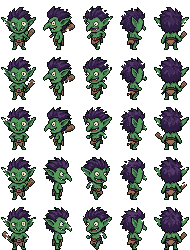
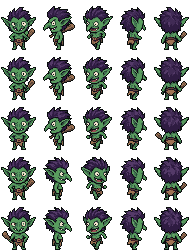
Goblin tipico grande quasi come Lei: una volta e mezza (65 pixel)
Bru: "deve essere grande quanto lei ma un po' piu' piccolo". Le pose degli
esempi (43 pixel) ingrandite di una volta e mezza, non a blocchi: Scale3x,
poi ogni 2x2 il colore piu' frequente (occhi, zanne, lingua e linee scure non
si perdono), il contorno esterno di nuovo di un pixel. Riquadri di 57x75.
Nella pulizia degli esempi i contorni aperti (le punte delle orecchie) ora si
chiudono invece di bucare le orecchie.

Claude-Session: https://claude.ai/code/session_01AE7uzpDH1Lo1PHb29aXJxZ

diff --git a/strumenti/nemici/goblin_tipico.py b/strumenti/nemici/goblin_tipico.py
@@ -1,15 +1,20 @@
 """Il goblin tipico (data/personaggi.json: goblin_tipico): le pose del foglio d'esempio di Bru (115, riportato ai pixel
 veri da esempi_bru.py in esempi.png) con la lingua blu del suo disegno (114). Bru: "ti ho dato un foglio pieno di
 esempi... parti da quelle e semplicemente aggiungi la lingua".
-Il foglio: 5 file x 5 colonne di pose, ognuna in un riquadro di 38x50 coi piedi sull'ultima riga; le colonne come
-negli esempi: di fronte, di lato (verso sinistra nelle prime tre file, verso destra nelle ultime due), la corsa di
-fronte con la bocca aperta, di spalle di lato, di spalle.
+Il foglio: 5 file x 5 colonne di pose; le colonne come negli esempi: di fronte, di lato (verso sinistra nelle prime
+tre file, verso destra nelle ultime due), la corsa di fronte con la bocca aperta, di spalle di lato, di spalle.
+Bru: "deve essere grande quanto lei ma un po' piu' piccolo" (gli esempi sono alti 43 pixel, Lei 74): tutto
+ingrandito di una volta e mezza (circa 65 pixel), riquadri di 57x75 coi piedi sull'ultima riga. Non a blocchi (un
+pixel su due raddoppiato, linee storte): Scale3x, che tiene dritte le diagonali, poi ogni 2x2 il colore che c'e' di
+piu' (gli occhi, le zanne, la lingua e le linee scure vincono se ce ne sono almeno due, e nessuno di loro si perde);
+alla fine il contorno esterno torna di un pixel solo.
 La lingua (blu, coi suoi chiaro e scuro e il contorno nero come il resto) dove si vede la bocca: di fronte pende
 dritta fra le zanne, sotto la punta del naso; di lato pende sul mento e piega di un pixel verso il naso; nella corsa
 la lingua rosa della bocca aperta diventa blu ed esce sul mento. Di spalle non si vede.
 uso: goblin_tipico.py cartella    (legge cartella/esempi.png, scrive cartella/goblin_tipico.png)"""
 import os
 import sys
+from collections import Counter
 
 import numpy as np
 from PIL import Image
@@ -79,9 +84,124 @@ def lingue(L):
     return L
 
 
+# ------------------------------------------------------------------ una volta e mezza
+IMPORTANTI = 'wbBnk'    # occhi e zanne, la lingua, le linee: i dettagli piccoli che non devono sparire
+V4 = ((0, 1), (1, 0), (0, -1), (-1, 0))
+
+
+def scale3x(L):
+    H, W = L.shape
+    P = np.pad(L, 1, mode='constant', constant_values='.')
+    O = np.empty((H * 3, W * 3), dtype=L.dtype)
+    for y in range(H):
+        for x in range(W):
+            A, B, C = P[y, x], P[y, x + 1], P[y, x + 2]
+            D, E, F = P[y + 1, x], P[y + 1, x + 1], P[y + 1, x + 2]
+            G, Hh, I = P[y + 2, x], P[y + 2, x + 1], P[y + 2, x + 2]
+            e = [E] * 9
+            if B != Hh and D != F:
+                if D == B:
+                    e[0] = D
+                if (D == B and E != C) or (B == F and E != A):
+                    e[1] = B
+                if B == F:
+                    e[2] = F
+                if (D == B and E != G) or (D == Hh and E != A):
+                    e[3] = D
+                if (B == F and E != I) or (Hh == F and E != C):
+                    e[5] = F
+                if D == Hh:
+                    e[6] = D
+                if (D == Hh and E != I) or (Hh == F and E != G):
+                    e[7] = Hh
+                if Hh == F:
+                    e[8] = F
+            O[y * 3:y * 3 + 3, x * 3:x * 3 + 3] = np.array(e).reshape(3, 3)
+    return O
+
+
+def dimezza(O):
+    H, W = O.shape[0] // 2, O.shape[1] // 2
+    R = np.empty((H, W), dtype=O.dtype)
+    for y in range(H):
+        for x in range(W):
+            c = Counter(O[2 * y:2 * y + 2, 2 * x:2 * x + 2].ravel().tolist()).most_common()
+            imp = [s for s, n in c if n >= 2 and s in IMPORTANTI]
+            if imp:
+                R[y, x] = min(imp, key=IMPORTANTI.index)
+                continue
+            top = [s for s, n in c if n == c[0][1]]
+            colori = [s for s in top if s not in '.k']
+            R[y, x] = top[0] if len(top) == 1 else (colori[0] if colori else ('k' if 'k' in top else top[0]))
+    return R
+
+
+def ripristina(L, R):
+    """ogni pixel di occhi, zanne e lingua (e ogni pupilla) del piccolo ha almeno un pixel uguale nel suo posto
+    ingrandito; se no lo si mette al centro"""
+    H, W = L.shape
+    for y in range(H):
+        for x in range(W):
+            s = L[y, x]
+            pupilla = s == 'k' and sum(1 for dy, dx in V4 if 0 <= y + dy < H and 0 <= x + dx < W
+                                       and L[y + dy, x + dx] == 'w') >= 2
+            if s not in 'wbBn' and not pupilla:
+                continue
+            y0, y1 = int(np.floor(y * 1.5)), int(np.ceil((y + 1) * 1.5))
+            x0, x1 = int(np.floor(x * 1.5)), int(np.ceil((x + 1) * 1.5))
+            if not (R[y0:y1, x0:x1] == s).any():
+                R[min(int(round((y + 0.5) * 1.5 - 0.5)), R.shape[0] - 1),
+                  min(int(round((x + 0.5) * 1.5 - 0.5)), R.shape[1] - 1)] = s
+    return R
+
+
+def contorni(L):
+    """il contorno esterno chiuso e di un pixel: un colore che tocca il vuoto diventa contorno; un contorno doppio
+    (che non tocca il vuoto, accanto a uno che lo tocca, col colore dall'altra parte, e non in mezzo a una linea)
+    diventa il colore accanto; i pixel di contorno rimasti soli spariscono"""
+    L = L.copy()
+    H, W = L.shape
+
+    def dentro(y, x):
+        return 0 <= y < H and 0 <= x < W
+
+    def tocca_vuoto(y, x):
+        return any(not dentro(y + dy, x + dx) or L[y + dy, x + dx] == '.' for dy, dx in V4)
+    for y in range(H):
+        for x in range(W):
+            if L[y, x] not in '.k' and tocca_vuoto(y, x):
+                L[y, x] = 'k'
+    esterno = np.array([[L[y, x] == 'k' and tocca_vuoto(y, x) for x in range(W)] for y in range(H)])
+    nuovo = L.copy()
+    for y in range(H):
+        for x in range(W):
+            if L[y, x] != 'k' or esterno[y, x]:
+                continue
+            vic = [(y + dy, x + dx) for dy, dx in V4 if dentro(y + dy, x + dx)]
+            colori = [L[a, b] for a, b in vic if L[a, b] not in '.k']
+            if not colori or not any(esterno[a, b] for a, b in vic):
+                continue
+            linea = any(dentro(y - dy, x - dx) and dentro(y + dy, x + dx) and L[y - dy, x - dx] == 'k'
+                        and L[y + dy, x + dx] == 'k' and not esterno[y - dy, x - dx] and not esterno[y + dy, x + dx]
+                        for dy, dx in ((1, 0), (0, 1)))
+            if not linea:
+                nuovo[y, x] = Counter(colori).most_common(1)[0][0]
+    L = nuovo
+    for y in range(H):
+        for x in range(W):
+            if L[y, x] == 'k' and not any(dentro(y + dy, x + dx) and L[y + dy, x + dx] not in '.k'
+                                          for dy in (-1, 0, 1) for dx in (-1, 0, 1) if dy or dx):
+                L[y, x] = '.'
+    return L
+
+
+def ingrandisci(L):
+    return contorni(ripristina(L, dimezza(scale3x(L))))
+
+
 if __name__ == '__main__':
     D = sys.argv[1]
-    L = lingue(leggi(os.path.join(D, 'esempi.png')))
+    L = ingrandisci(lingue(leggi(os.path.join(D, 'esempi.png'))))
     img = np.zeros(L.shape + (4,), np.uint8)
     for k, c in COLORI.items():
         m = L == k

diff --git a/strumenti/nemici/esempi_bru.py b/strumenti/nemici/esempi_bru.py
@@ -2,8 +2,9 @@
 Il 115 e' una griglia di 5x5 pose con i pixel grandi 4,687 punti (non intero) e il fondo verde; le righe scure lo
 dividono in cinque file. Qui: per ogni pixel vero la mediana del centro del suo quadrato; il fondo (riempito dai
 bordi di ogni cella, si ferma al contorno nero) diventa trasparente; ogni colore va al piu' vicino (OKLab) di una
-tavolozza presa dagli esempi stessi; i pixel sporchi fuori dal contorno (resti della compressione) diventano
-contorno se ne hanno almeno tre attorno, se no spariscono; le pose in riquadri di 38x50 coi piedi sull'ultima riga.
+tavolozza presa dagli esempi stessi; i colori che toccano il fondo diventano contorno (dove gli esempi l'hanno
+aperto) e i puntini staccati (resti della compressione) spariscono; le pose in riquadri di 38x50 coi piedi
+sull'ultima riga.
 uso: esempi_bru.py esempi.webp foglio.png"""
 import os
 import sys
@@ -76,20 +77,21 @@ def lettere(a, fig):
 
 
 def bordi(L):
+    """i colori che toccano il fondo: un puntino staccato (al piu' due vicini pieni) sparisce, il resto diventa
+    contorno (dove il contorno degli esempi e' aperto, come sulle punte delle orecchie, si chiude)"""
     H, W = L.shape
-    for _ in range(2):
-        nuovo = L.copy()
-        for y in range(H):
-            for x in range(W):
-                if L[y, x] in '.k':
-                    continue
-                if not any(not (0 <= y + dy < H and 0 <= x + dx < W) or L[y + dy, x + dx] == '.'
-                           for dy, dx in ((0, 1), (1, 0), (0, -1), (-1, 0))):
-                    continue
-                nk = sum(1 for dy in (-1, 0, 1) for dx in (-1, 0, 1) if (dy or dx) and 0 <= y + dy < H
-                         and 0 <= x + dx < W and L[y + dy, x + dx] == 'k')
-                nuovo[y, x] = 'k' if nk >= 3 else '.'
-        L = nuovo
+    nuovo = L.copy()
+    for y in range(H):
+        for x in range(W):
+            if L[y, x] in '.k':
+                continue
+            if not any(not (0 <= y + dy < H and 0 <= x + dx < W) or L[y + dy, x + dx] == '.'
+                       for dy, dx in ((0, 1), (1, 0), (0, -1), (-1, 0))):
+                continue
+            pieni = sum(1 for dy in (-1, 0, 1) for dx in (-1, 0, 1) if (dy or dx) and 0 <= y + dy < H
+                        and 0 <= x + dx < W and L[y + dy, x + dx] != '.')
+            nuovo[y, x] = 'k' if pieni >= 3 else '.'
+    L = nuovo
     for y in range(H):
         for x in range(W):
             if L[y, x] == 'k' and not any(0 <= y + dy < H and 0 <= x + dx < W and L[y + dy, x + dx] != '.'
